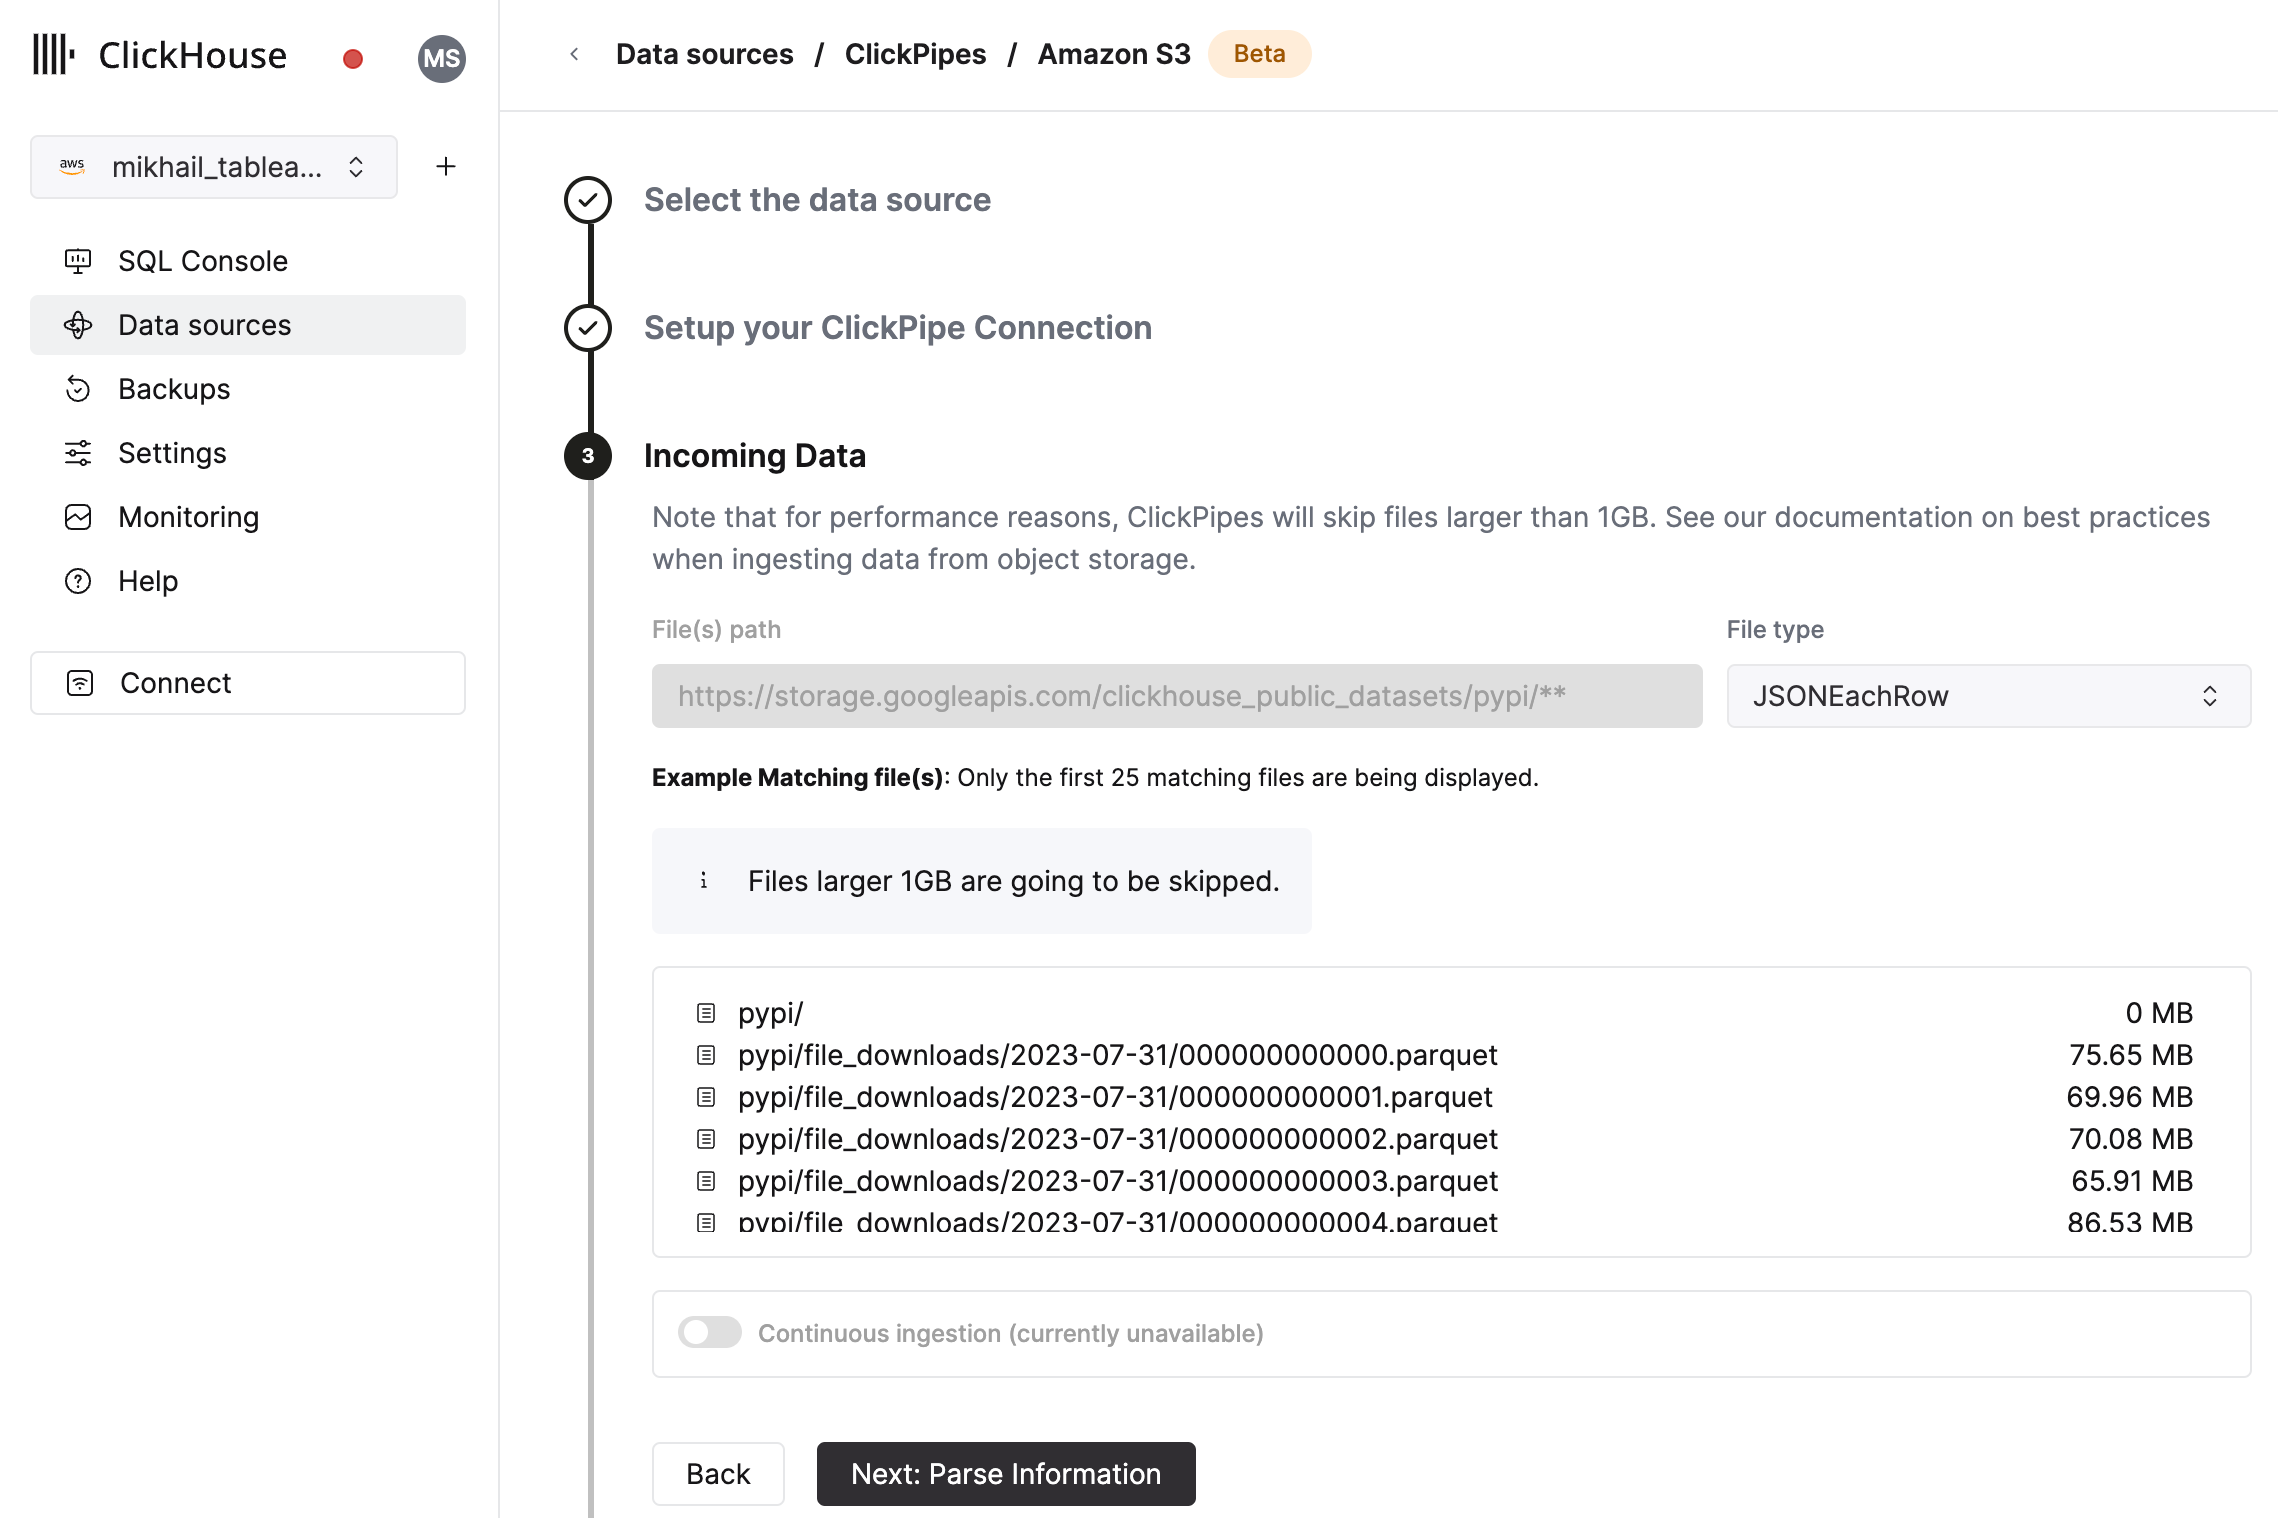
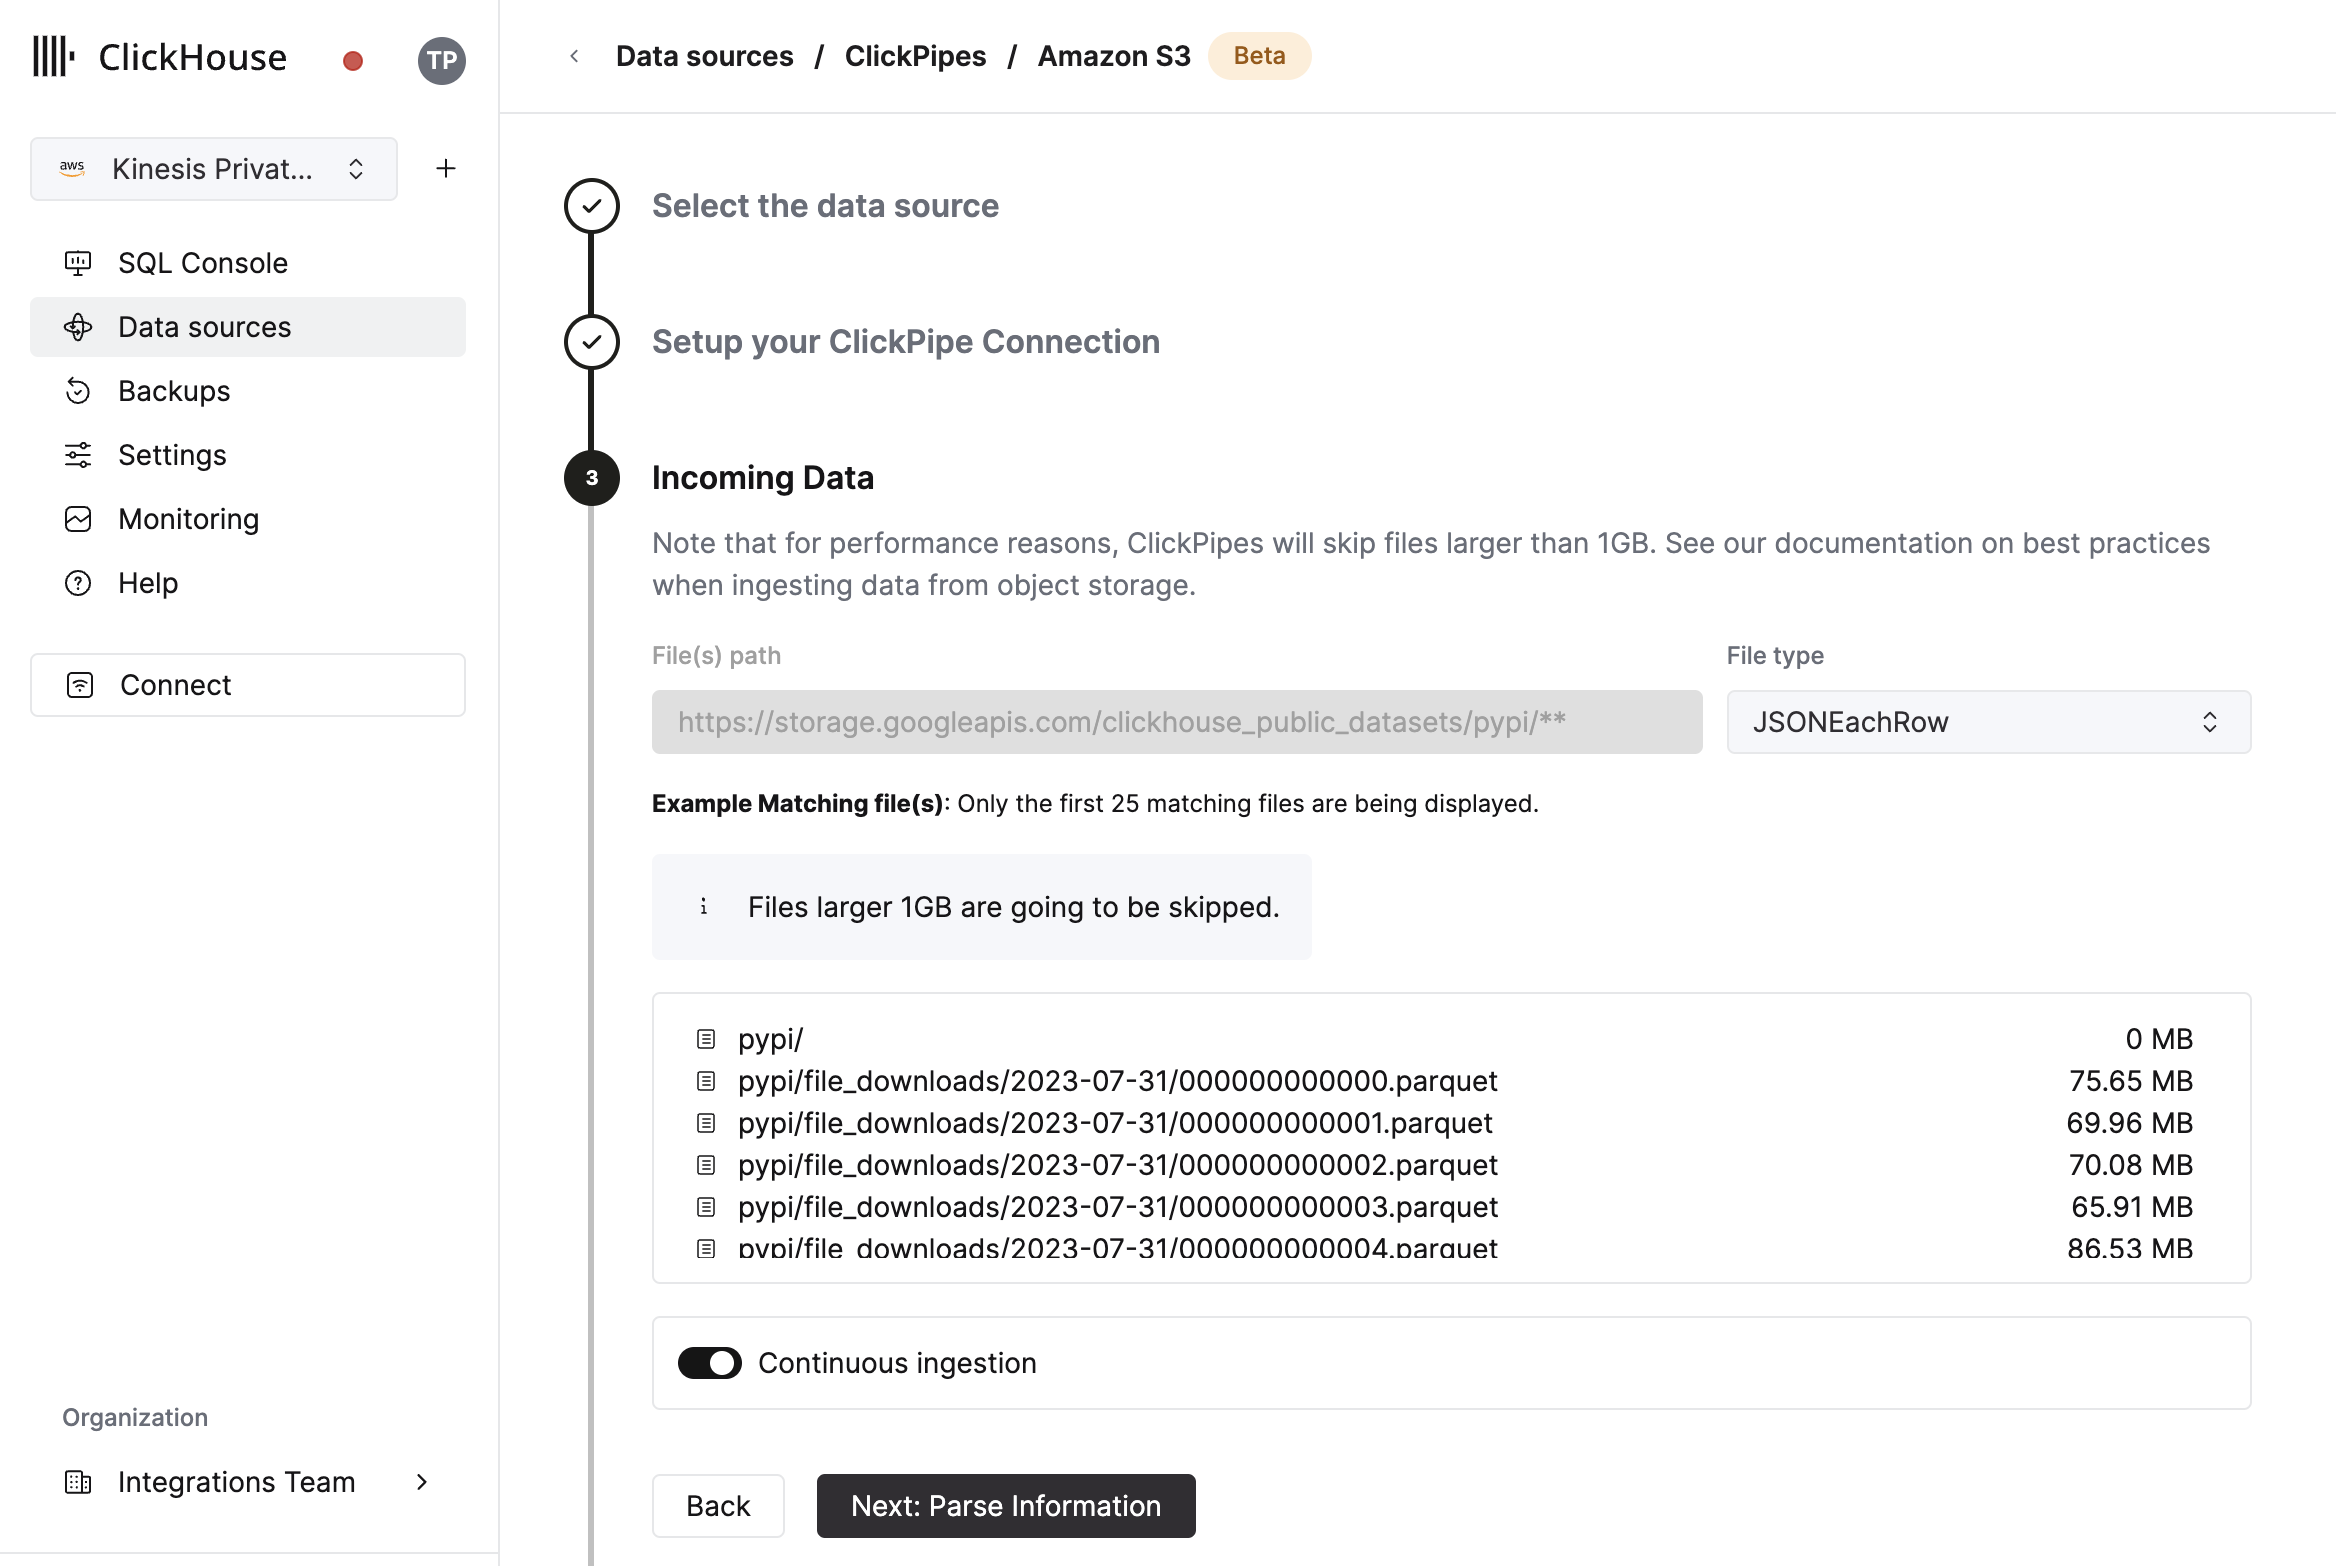
Add section for S3 continuous ingestion for clickpipes

diff --git a/docs/en/integrations/data-ingestion/clickpipes/object-storage.md b/docs/en/integrations/data-ingestion/clickpipes/object-storage.md
@@ -28,7 +28,7 @@ You have familiarized yourself with the [ClickPipes intro](./index.md).
 
   ![Fill out connection details](./images/cp_step2_object_storage.png)
 
-5. The UI will display a list of files in the specified bucket. Select your data format (we currently support a subset of ClickHouse formats). 
+5. The UI will display a list of files in the specified bucket. Select your data format (we currently support a subset of ClickHouse formats) and if you want to enable continuous ingestion [More details below](#continuous-ingest).
 
   ![Set data format and topic](./images/cp_step3_object_storage.png)
 
@@ -104,6 +104,9 @@ This is not a valid path. `{N..M}` are not supported in ClickPipes.
 https://datasets-documentation.s3.eu-west-3.amazonaws.com/http/{documents-01,documents-02}.ndjson.gz
 :::
 
+## Continuous Ingest
+ClickPipes supports continuous ingestion from both S3 and GCS. When enabled, ClickPipes will continuously ingest data from the specified path. However, new files must be lexically greater than the last ingested file, meaning they must be named in a way that defines the ingestion order. For instance, files named `file1`, `file2`, `file3`, etc., will be ingested sequentially. If a new file is added with a name like `file0`, ClickPipes will not ingest it because it is not lexically greater than the last ingested file.
+
 ## Authentication
 
 ### S3
@@ -120,6 +123,3 @@ The Service Account permissions attached to the HMAC credentials should be `stor
 
 No. For interoprability reasons we ask you to replace your `gs://` bucket prefix with `https://storage.googleapis.com/`.
 
-- **Does ClickPipes support continuous ingestion from object storage?**
-
-No, not currently. It is on our roadmap. Please feel free to express interest to us if you would like to be notified.
